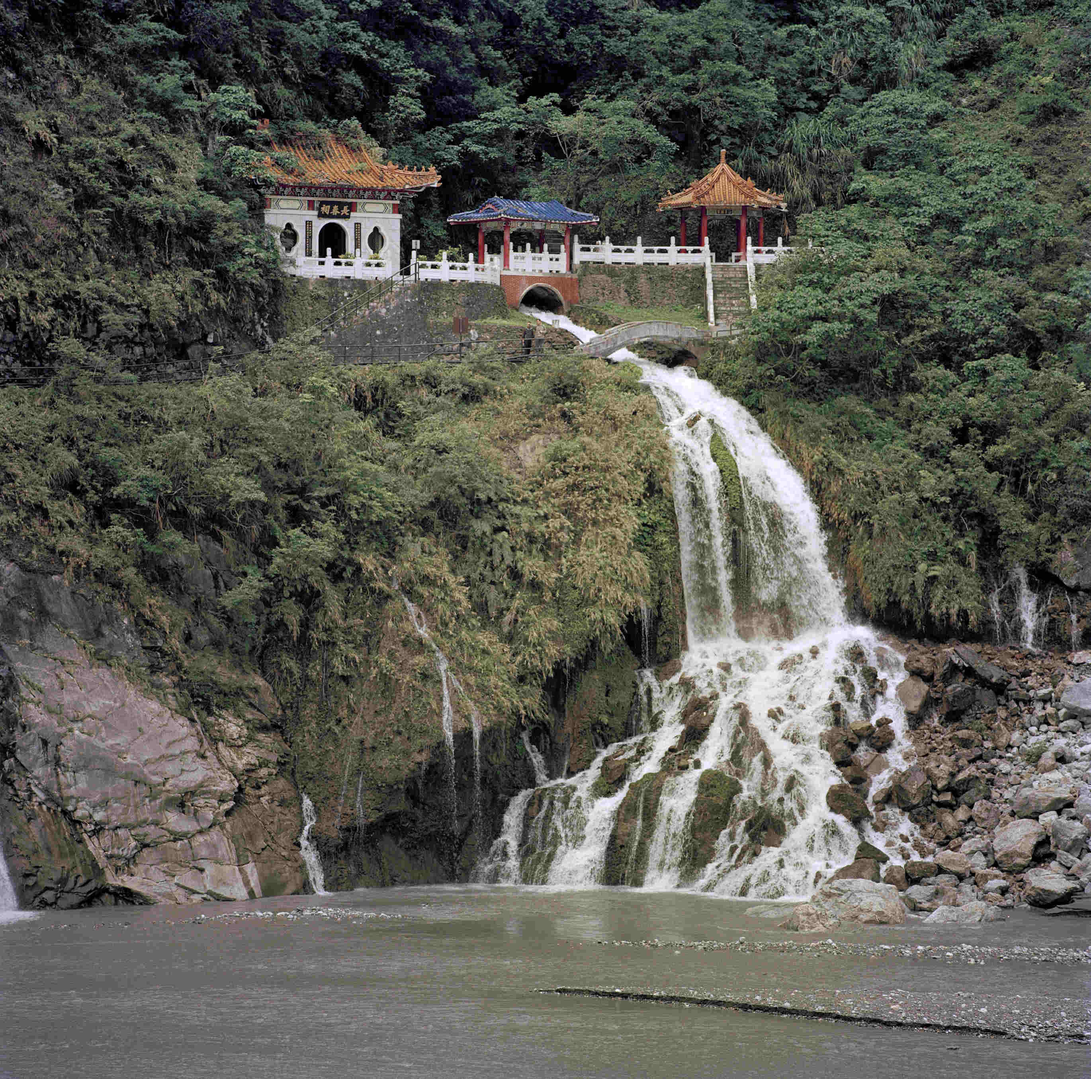
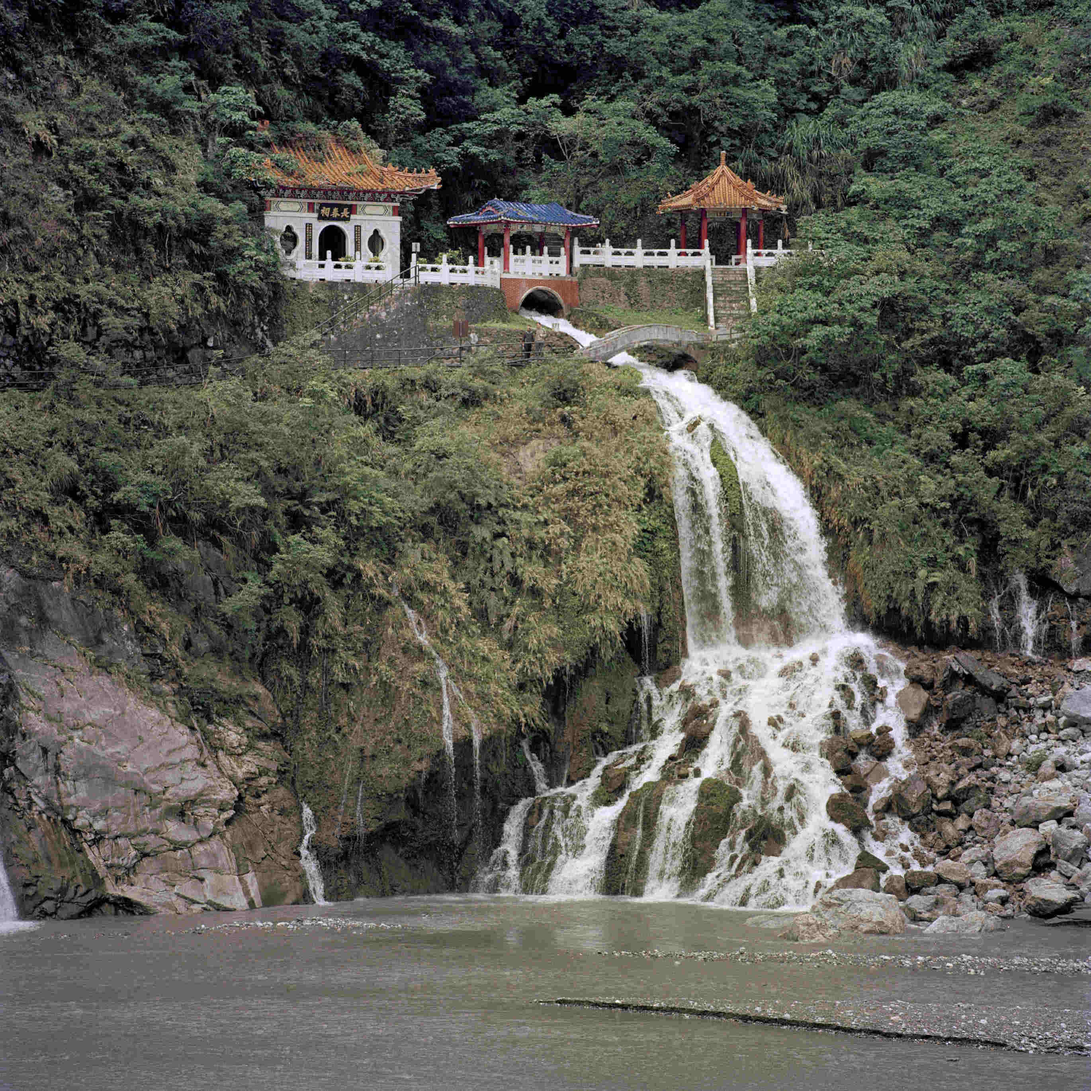
taiwan: scale compressed images to perfect squares

Changed region(s): [[0.2172, 0.124, 0.4033, 0.186], [0.4343, 0.186, 0.4964, 0.2171], [0.6204, 0.155, 0.6515, 0.186]]

diff --git a/src/components/CountryList.vue b/src/components/CountryList.vue
@@ -39,7 +39,8 @@ import CountryItem from "@/components/CountryItem.vue";
       </template>
 
       <template #content>
-        <p>Portugal, van noord tot zuid: Noord-Portugal, Beiras, Vale do Tejo, Alentejo en zeker Algarve. Het zijn populaire
+        <p>Portugal, van noord tot zuid: Noord-Portugal, Beiras, Vale do Tejo, Alentejo en zeker Algarve. Het zijn
+          populaire
           vakantiebestemmingen voor zonnekloppers en liefhebbers van natuurschoon. En voor wie de cultuur en de
           tradities
           van Portugal wil ontdekken, is er een ruime keuze aan culturele bezienswaardigheden en activiteiten. De
@@ -217,17 +218,11 @@ import CountryItem from "@/components/CountryItem.vue";
       </template>
 
       <template #content>
-        <p>De Griekse mythologie getuigt van grote vindingrijkheid en verbeeldingskracht. De ontdekking
-          van het paleis te Knossos in het begin van de 20ste eeuw heeft de mythe dichter bij de werkelijkheid gebracht.
-          In
-          het eerste deel verkennen we Kreta en Santorini met de geschiedenis als rode draad. Grieken, Romeinen, Moren,
-          Byzantijnen, Venetianen, Turken en Duitsers: ze lieten er allemaal hun sporen na. In het tweede deel gaat onze
-          aandacht naar de natuur, het cultureel erfgoed en de hedendaagse samenleving. De Witte Bergen hebben de
-          hoogste
-          toppen en de diepste ravijnen. Het gebied met de Samariakloof is beschermd als Nationaal Park. Slechts een
-          vierde
-          van het land is geschikt voor landbouw. Kreta produceert olijfolie, wijn, citrusvruchten en tomaten; toch is
-          toerisme nu de belangrijkste bron van inkomsten.</p>
+        <p>Halfweg tussen Portugal en New York ligt een bijna vergeten eilandengroep, vulkanen waarvan de toppen boven
+          het water van de Atlantische Oceaan uitsteken. Door de overvloedige neerslag en de gematigde temperatuur
+          hebben de Azoren een uitzonderlijk weelderige plantengroei. De onbewoonde eilanden werden in de 15de eeuw
+          gekoloniseerd, hoofdzakelijk door Portugezen maar ook door Vlamingen. De Azoren zijn belangrijk voor de
+          zeilers die de oceaan oversteken en voor reizigers die van een niet alledaagse bestemming houden.</p>
       </template>
 
       <template #link>
@@ -368,9 +363,6 @@ import CountryItem from "@/components/CountryItem.vue";
         <router-link class="country-link" to="/suriname">Meer</router-link>
       </template>
     </CountryItem>
-
-
-
 
 
     <CountryItem>
